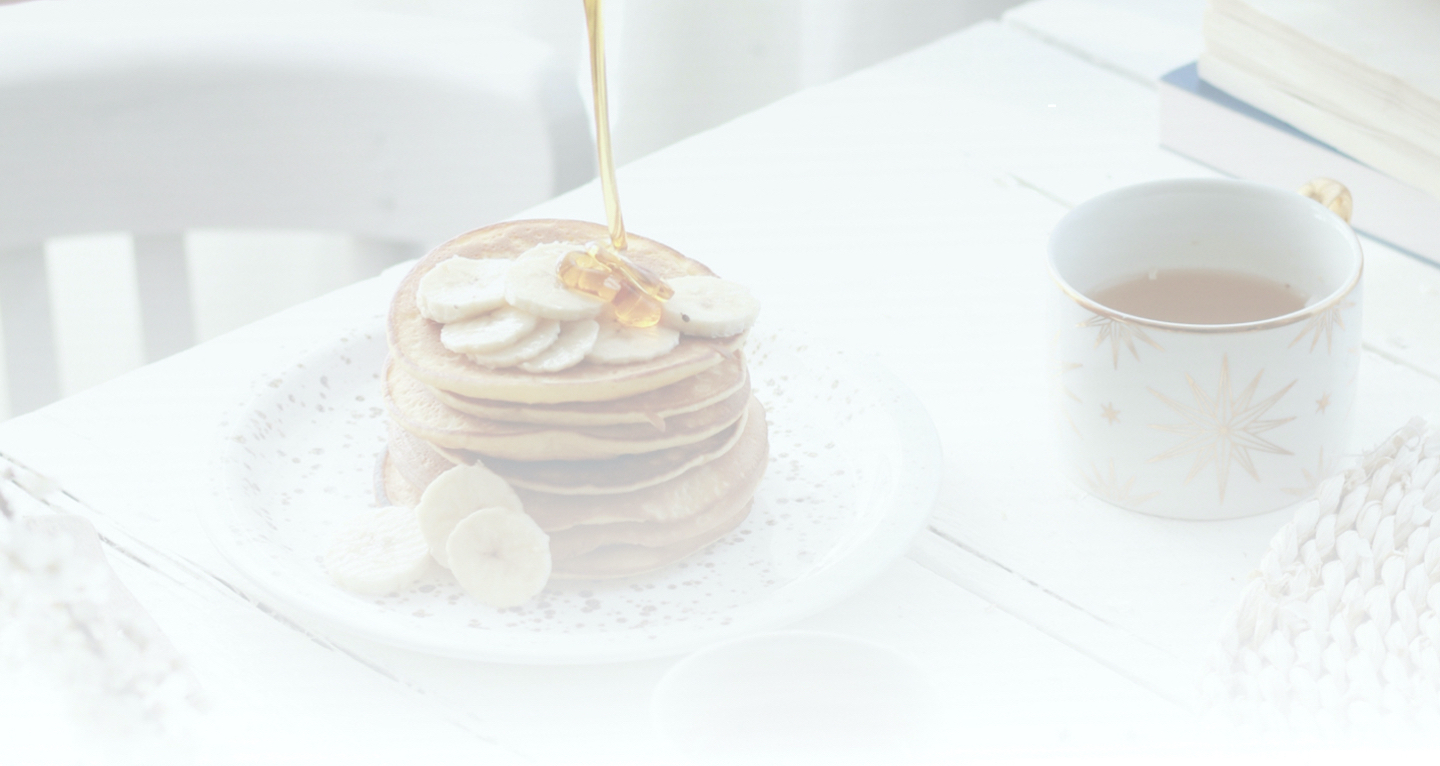
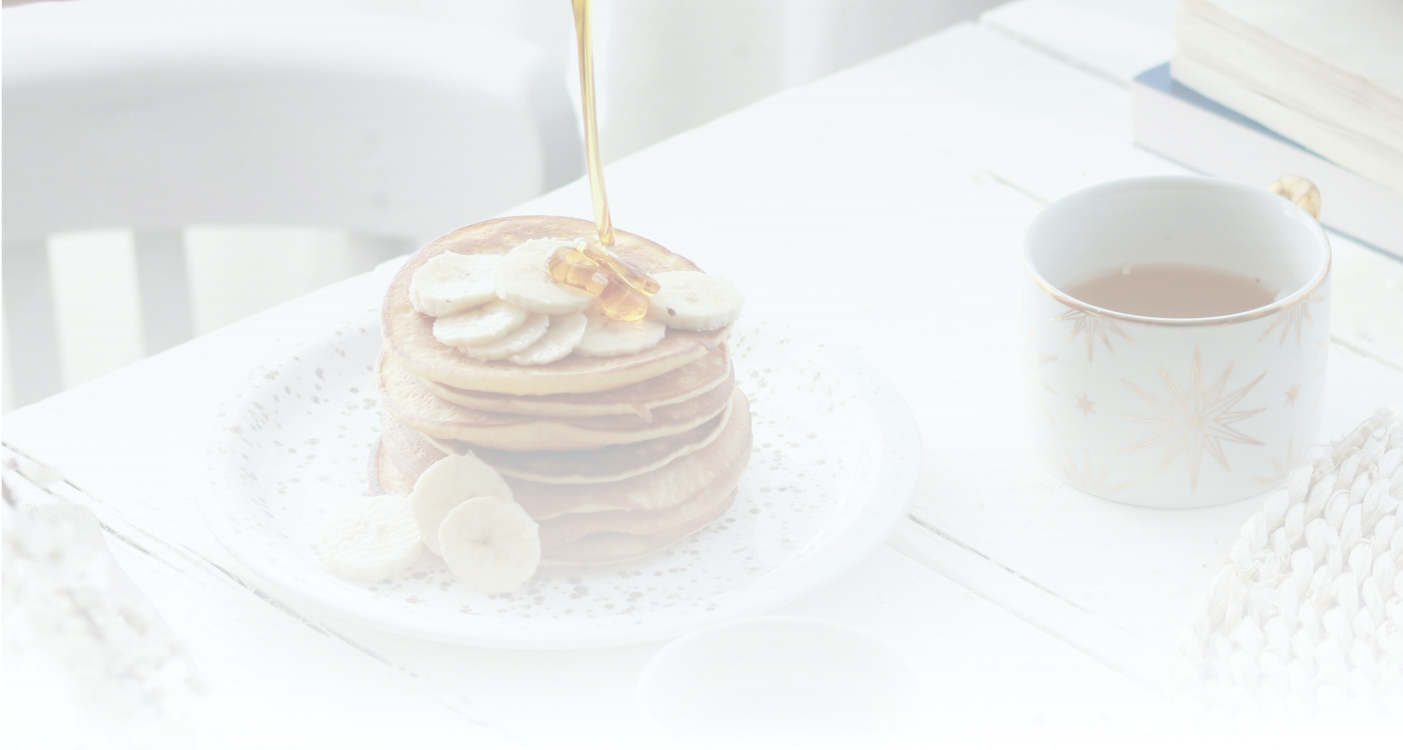
resize images for small screen in section about and the-best

diff --git a/index.html b/index.html
@@ -144,11 +144,30 @@
         <div class="about__image">
           <!-- Photo by Ioana Motoc from Pexels
  -->
-          <img
+          <picture>
+            <source
+              srcset="./src/images/about-bg-small.jpg"
+              alt="pancakes with honey"
+              media="(max-width: 576px)"
+            />
+            <source
+              srcset="./src/images/about-bg-medium.jpg"
+              alt="pancakes with honey"
+              media="(max-width: 768px)"
+            />
+
+            <img
+              class="about__image"
+              src="./src/images/about-bg.jpg"
+              alt="pancakes with honey"
+            />
+          </picture>
+
+          <!-- <img
             src="./src/images/about-bg.jpg"
             alt="pancakes with honey"
-            class="about__image"
-          />
+            
+          /> -->
         </div>
       </div>
       <div class="about__main">
@@ -232,7 +251,25 @@
         Oto co sparawia,<br />
         że jesteśmy <span>najlepsi:</span>
       </h1>
-      <img src="./src/images/the-best-bg.jpg" alt="" class="the-best__img" />
+
+      <picture>
+        <source
+          srcset="./src/images/the-best-bg-small.jpg"
+          alt="pancakes with honey"
+          media="(max-width: 576px)"
+        />
+        <source
+          srcset="./src/images/the-best-bg-medium.jpg"
+          alt="pancakes with honey"
+          media="(max-width: 768px)"
+        />
+
+        <img
+          class="the-best__img"
+          src="./src/images/the-best-bg.jpg"
+          alt="two bees flies over the vessel"
+        />
+      </picture>
 
       <div class="the-best__box">
         <p class="the-best__info info--1">

diff --git a/sass/layout/_about.scss b/sass/layout/_about.scss
@@ -6,15 +6,15 @@
   }
 
   // small triangles as a background in corners
-  &__triangle {
-    position: absolute;
-    width: 400px;
-    height: 600px;
-    left: 0;
-    background-color: #eecf90;
-    clip-path: polygon(0% 0px, 0px 62%, 38.55% 0%);
-    z-index: 1;
-  }
+  // &__triangle {
+  //   position: absolute;
+  //   width: 400px;
+  //   height: 600px;
+  //   left: 0;
+  //   background-color: #eecf90;
+  //   clip-path: polygon(0% 0px, 0px 62%, 38.55% 0%);
+  //   z-index: 1;
+  // }
 
   &__triangle2 {
     position: absolute;

diff --git a/sass/main.css b/sass/main.css
@@ -1065,17 +1065,6 @@ h5 {
   color: #d5b275;
 }
 
-.about__triangle {
-  position: absolute;
-  width: 400px;
-  height: 600px;
-  left: 0;
-  background-color: #eecf90;
-  -webkit-clip-path: polygon(0% 0px, 0px 62%, 38.55% 0%);
-          clip-path: polygon(0% 0px, 0px 62%, 38.55% 0%);
-  z-index: 1;
-}
-
 .about__triangle2 {
   position: absolute;
   width: 400px;

diff --git a/sass/abstracts/_functions.scss b/sass/abstracts/_functions.scss
@@ -8,7 +8,7 @@
     line-height: 140%;
 
     span {
-      display: $span;
+    display: $span;
       color: $color2;
     }
   }
